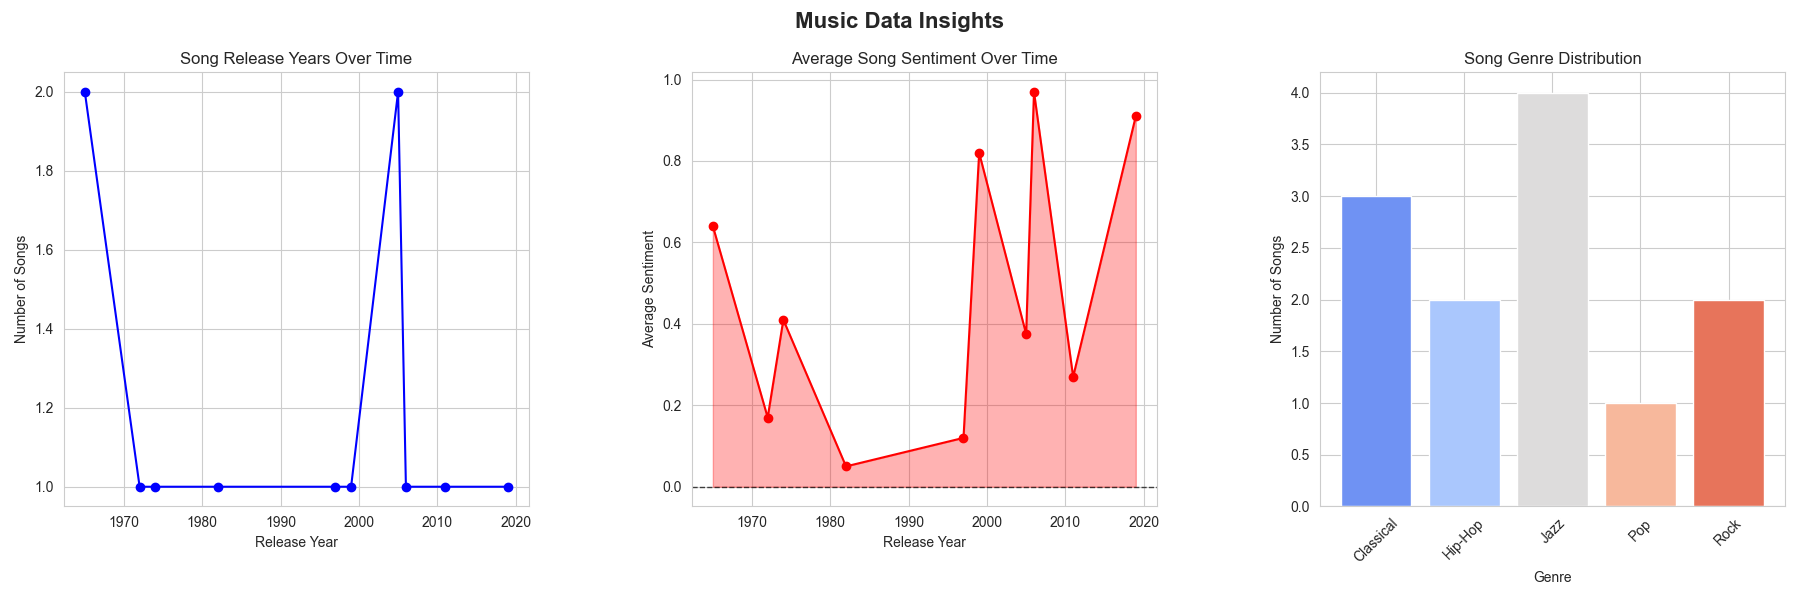
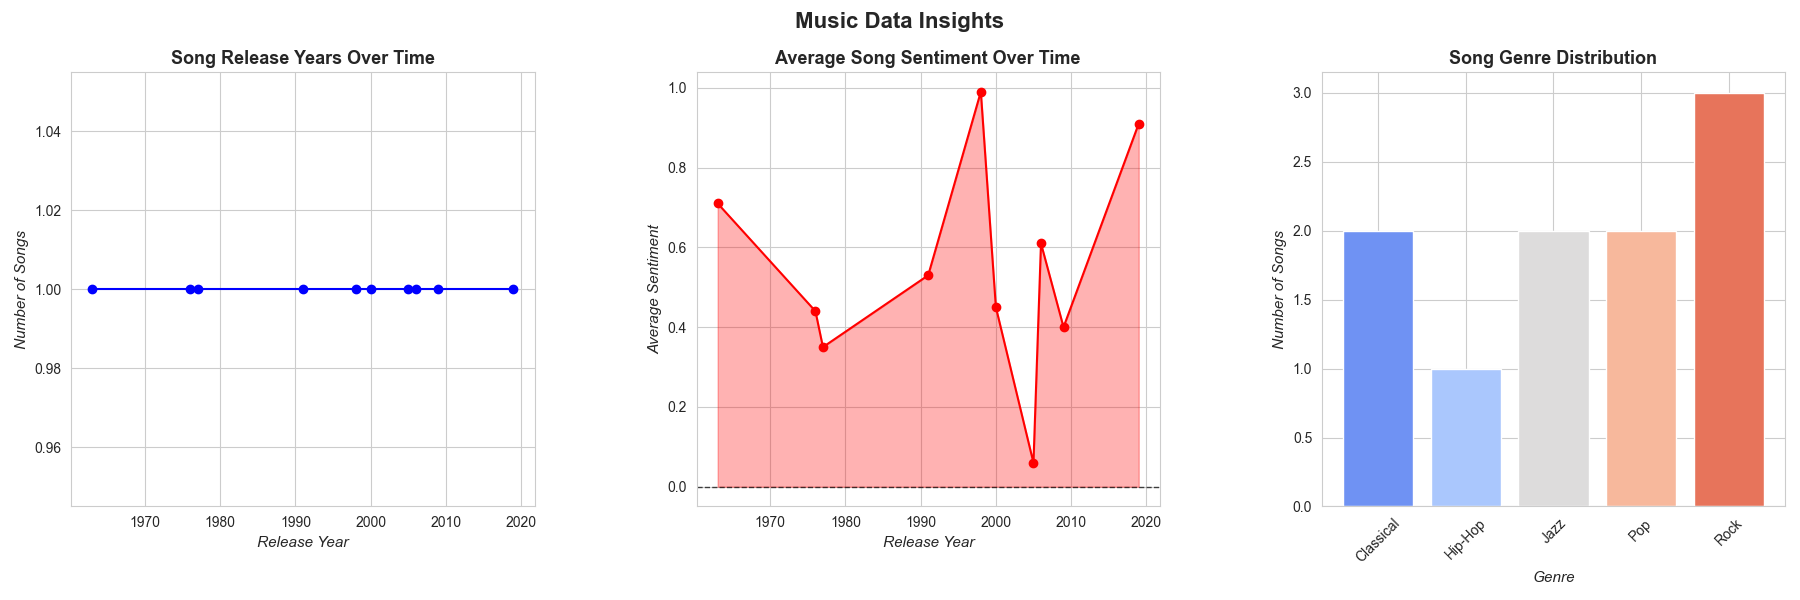
Changed font sizes and fontstyles of graphs

diff --git a/consumers/kafka_consumer_song_attributes.py b/consumers/kafka_consumer_song_attributes.py
@@ -193,25 +193,25 @@ def generate_combined_graphs(sql_path: pathlib.Path):
 
     # Release Year Graph
     axes[0].plot(years_release, counts_release, marker="o", linestyle="-", color="b")
-    axes[0].set_title("Song Release Years Over Time")
-    axes[0].set_xlabel("Release Year")
-    axes[0].set_ylabel("Number of Songs")
+    axes[0].set_title("Song Release Years Over Time", fontsize=13, fontweight="bold")
+    axes[0].set_xlabel("Release Year", fontsize=11, fontstyle="italic")
+    axes[0].set_ylabel("Number of Songs", fontsize=11, fontstyle="italic")
     axes[0].grid(True)
 
     # Sentiment Graph
     axes[1].plot(years_sentiment, sentiments, marker="o", linestyle="-", color="r")
     axes[1].fill_between(years_sentiment, sentiments, alpha=0.3, color="r")
     axes[1].axhline(y=0, linestyle="--", color="black", linewidth=1, alpha=0.7)
-    axes[1].set_title("Average Song Sentiment Over Time")
-    axes[1].set_xlabel("Release Year")
-    axes[1].set_ylabel("Average Sentiment")
+    axes[1].set_title("Average Song Sentiment Over Time", fontsize=13, fontweight="bold")
+    axes[1].set_xlabel("Release Year", fontsize=11, fontstyle="italic")
+    axes[1].set_ylabel("Average Sentiment", fontsize=11, fontstyle="italic")
     axes[1].grid(True)
 
     # Genre Distribution
     axes[2].bar(genres, genre_counts, color=sns.color_palette("coolwarm", len(genres)))
-    axes[2].set_title("Song Genre Distribution")
-    axes[2].set_xlabel("Genre")
-    axes[2].set_ylabel("Number of Songs")
+    axes[2].set_title("Song Genre Distribution", fontsize=13, fontweight="bold")
+    axes[2].set_xlabel("Genre", fontsize=11, fontstyle="italic")
+    axes[2].set_ylabel("Number of Songs", fontsize=11, fontstyle="italic")
     axes[2].tick_params(axis="x", rotation=45)
 
     # Adjust layout and save figure
